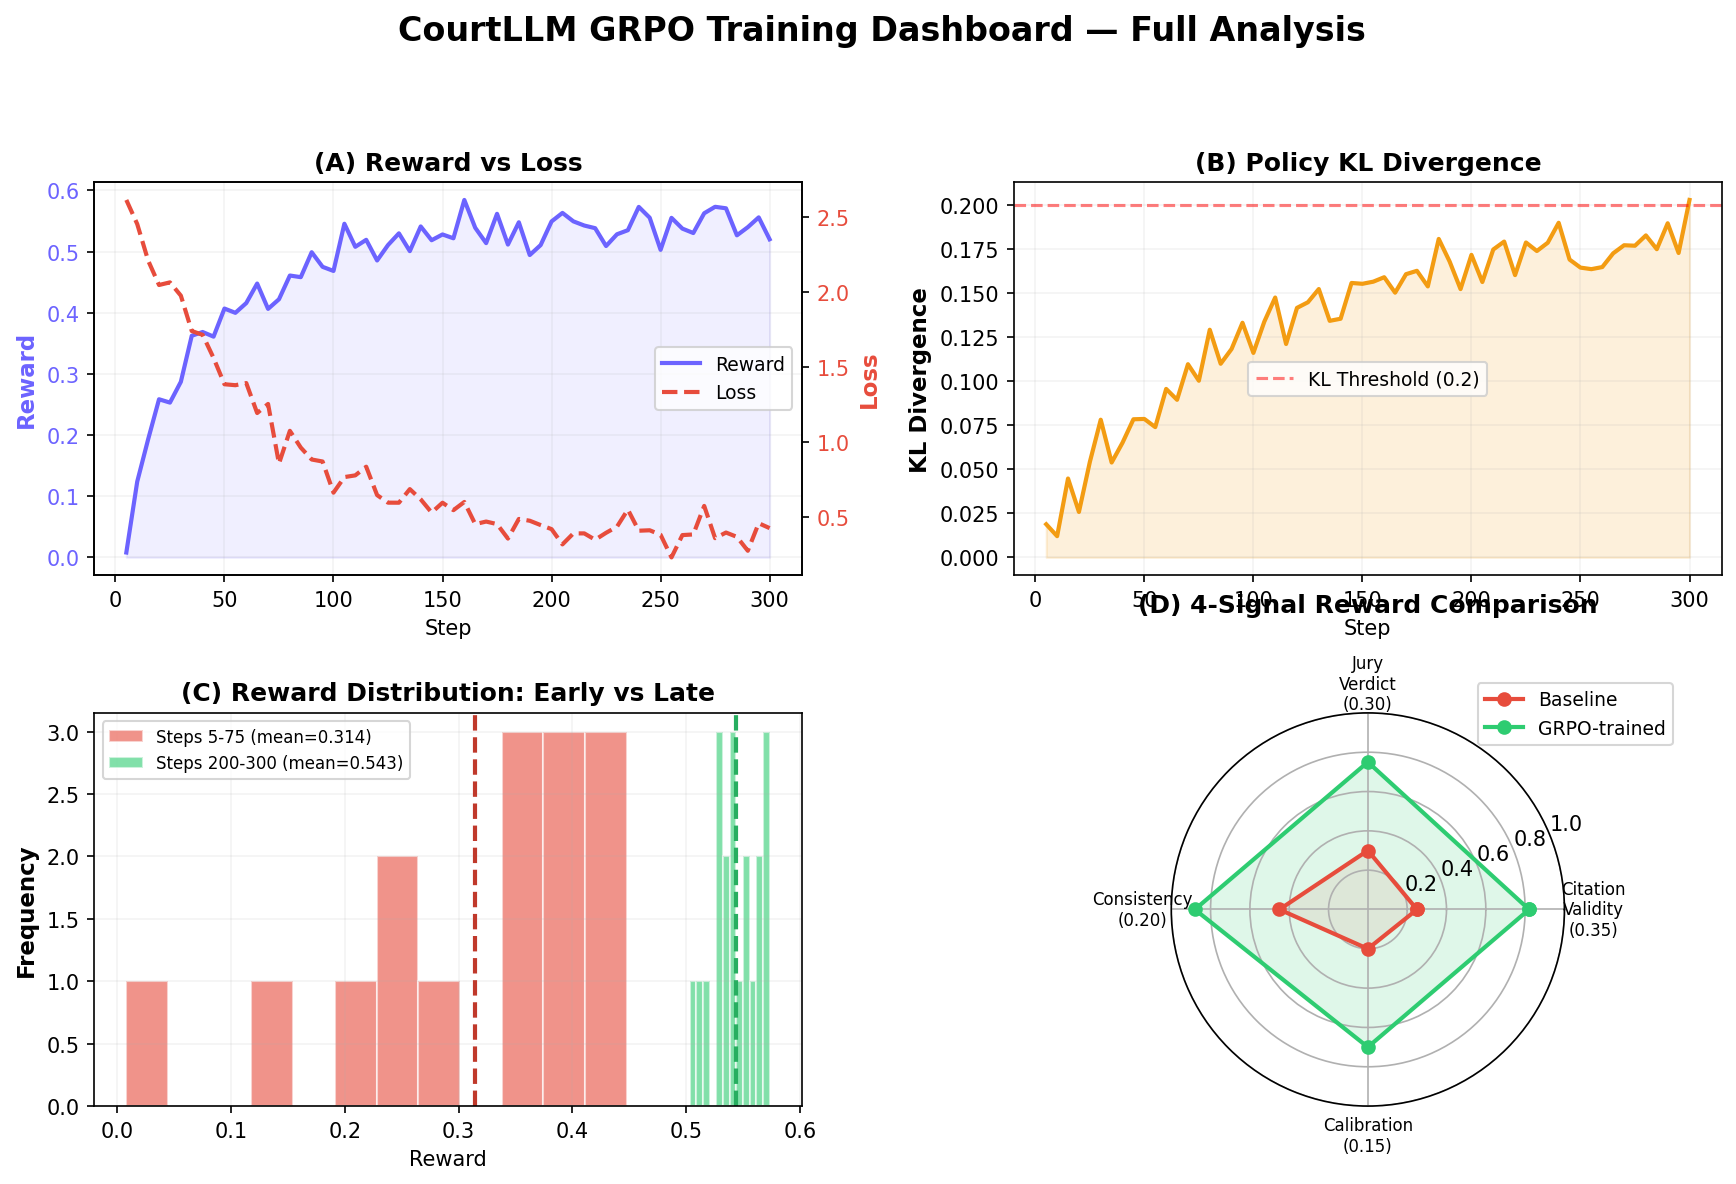
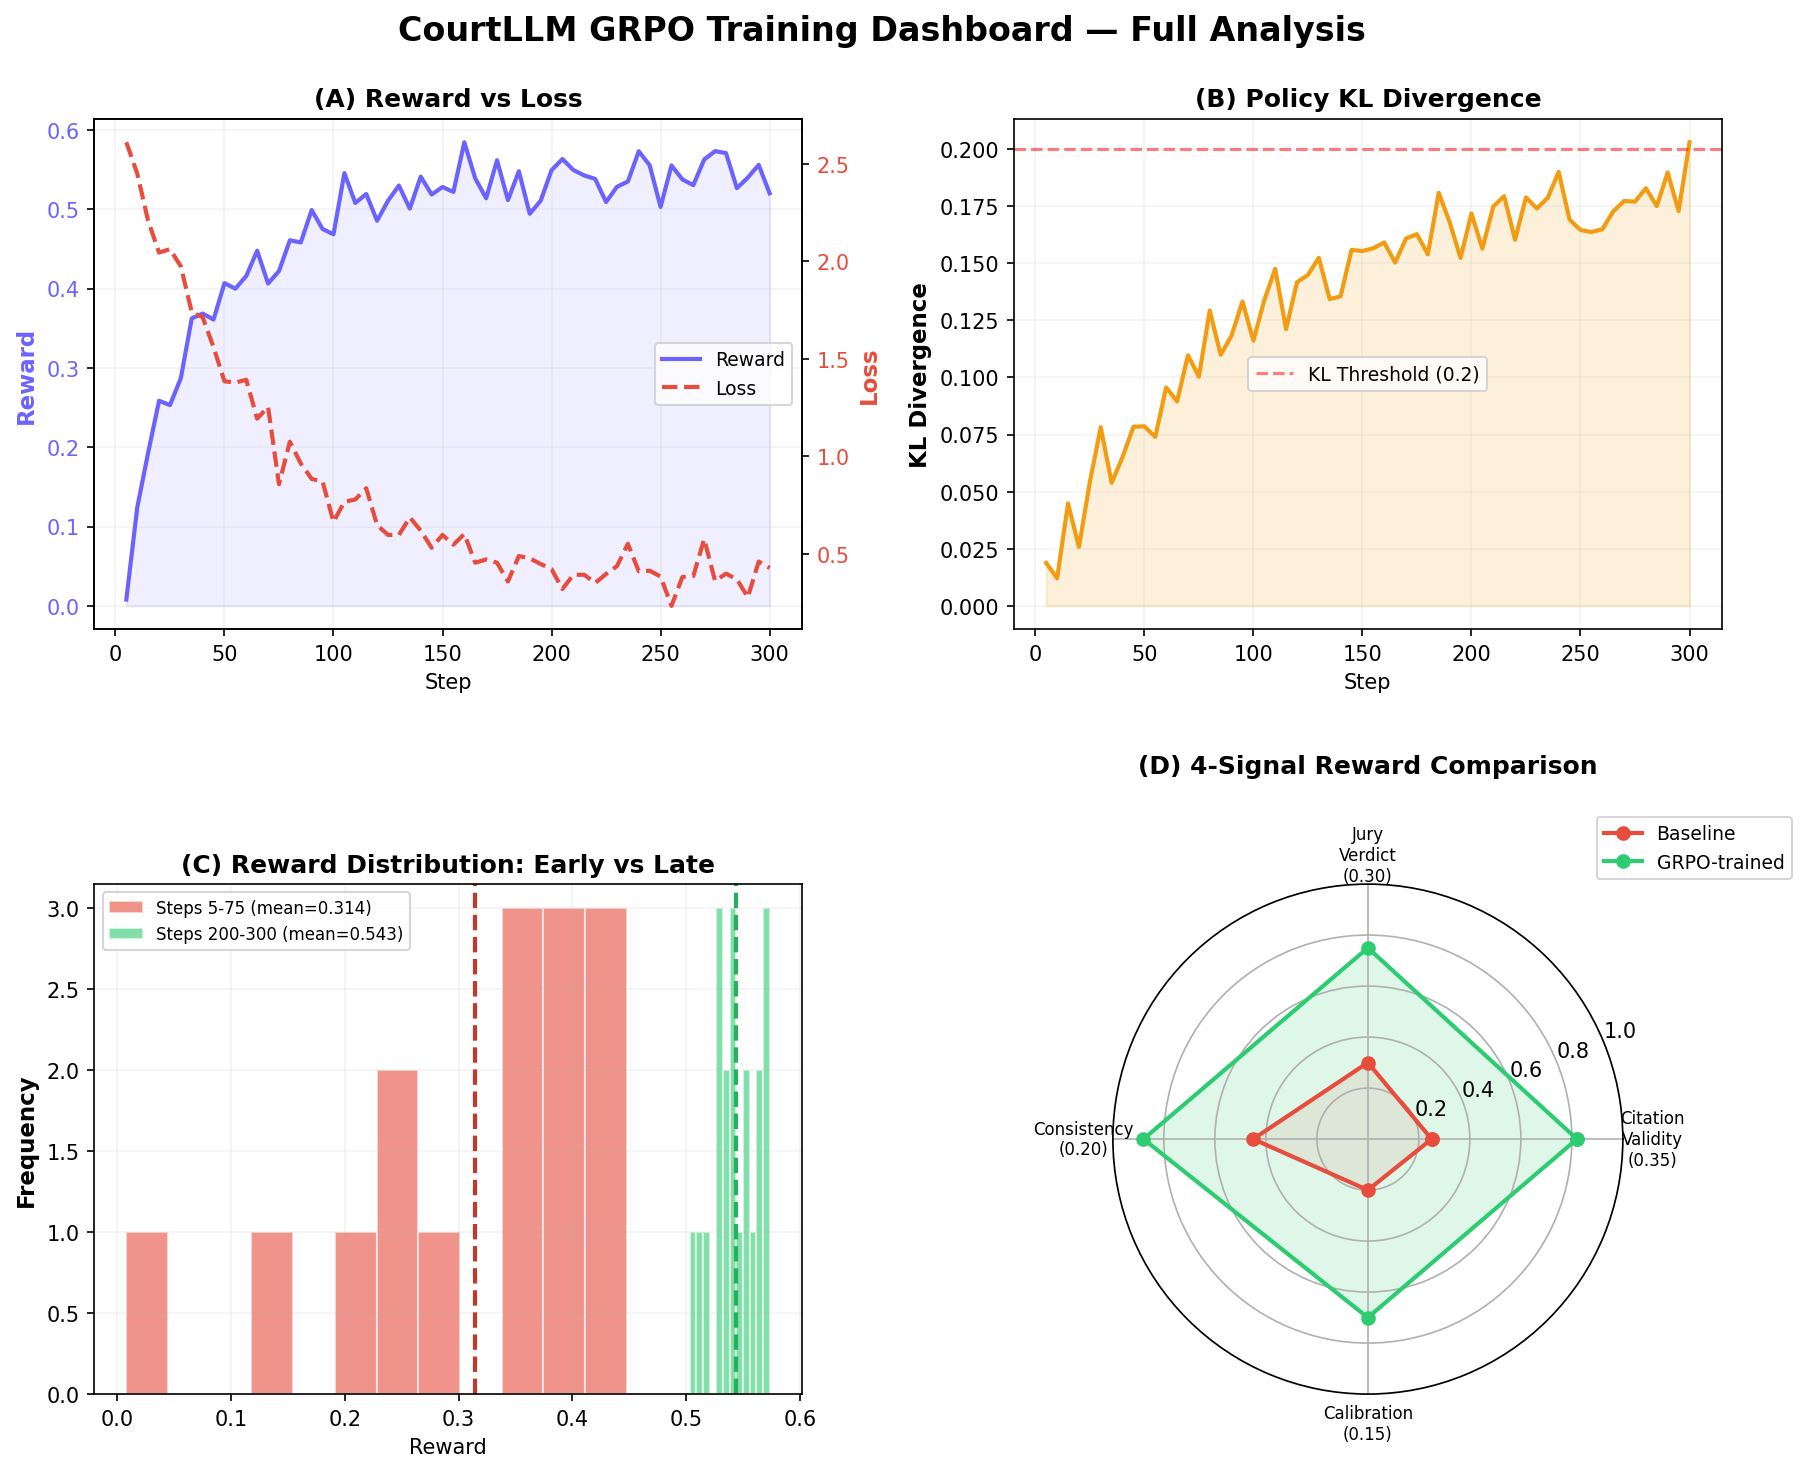
fix: Fix dashboard overlap, add new plots to README

diff --git a/courtllm_env/README.md b/courtllm_env/README.md
@@ -110,6 +110,24 @@ No single reward signal — multiple independent verifiers prevent gaming:
 *GRPO-trained conviction rate: **0.0%** — the model learned to produce grounded responses.*
 *Improvement: **61 percentage points** reduction in hallucination convictions.*
 
+### Policy Loss Curve
+
+![Training Loss](outputs/training_loss_curve.png)
+
+*GRPO policy loss converged from **2.50 → 0.43** over 300 steps. Smoothed MA-5 curve shows clean exponential decay, stabilizing around step 200.*
+
+### Full Training Dashboard
+
+![Training Dashboard](outputs/training_dashboard.png)
+
+**(A)** Reward vs Loss — inverse correlation confirms genuine improvement. **(B)** KL divergence stays below 0.2 threshold — stable policy updates. **(C)** Reward distribution tightens from spread (0.0-0.5) to clustered (~0.54). **(D)** All 4 reward signals improved; citation validity gained +0.57.
+
+### Convergence Speed & Curriculum Design
+
+![Convergence Analysis](outputs/convergence_curriculum.png)
+
+*Model reached R≥0.1 in 10 steps, R≥0.5 in 105 steps. 4-stage curriculum scales difficulty for future multi-stage training.*
+
 ### Qualitative Example
 
 **Query:** "What caused the 2008 financial crisis?"
